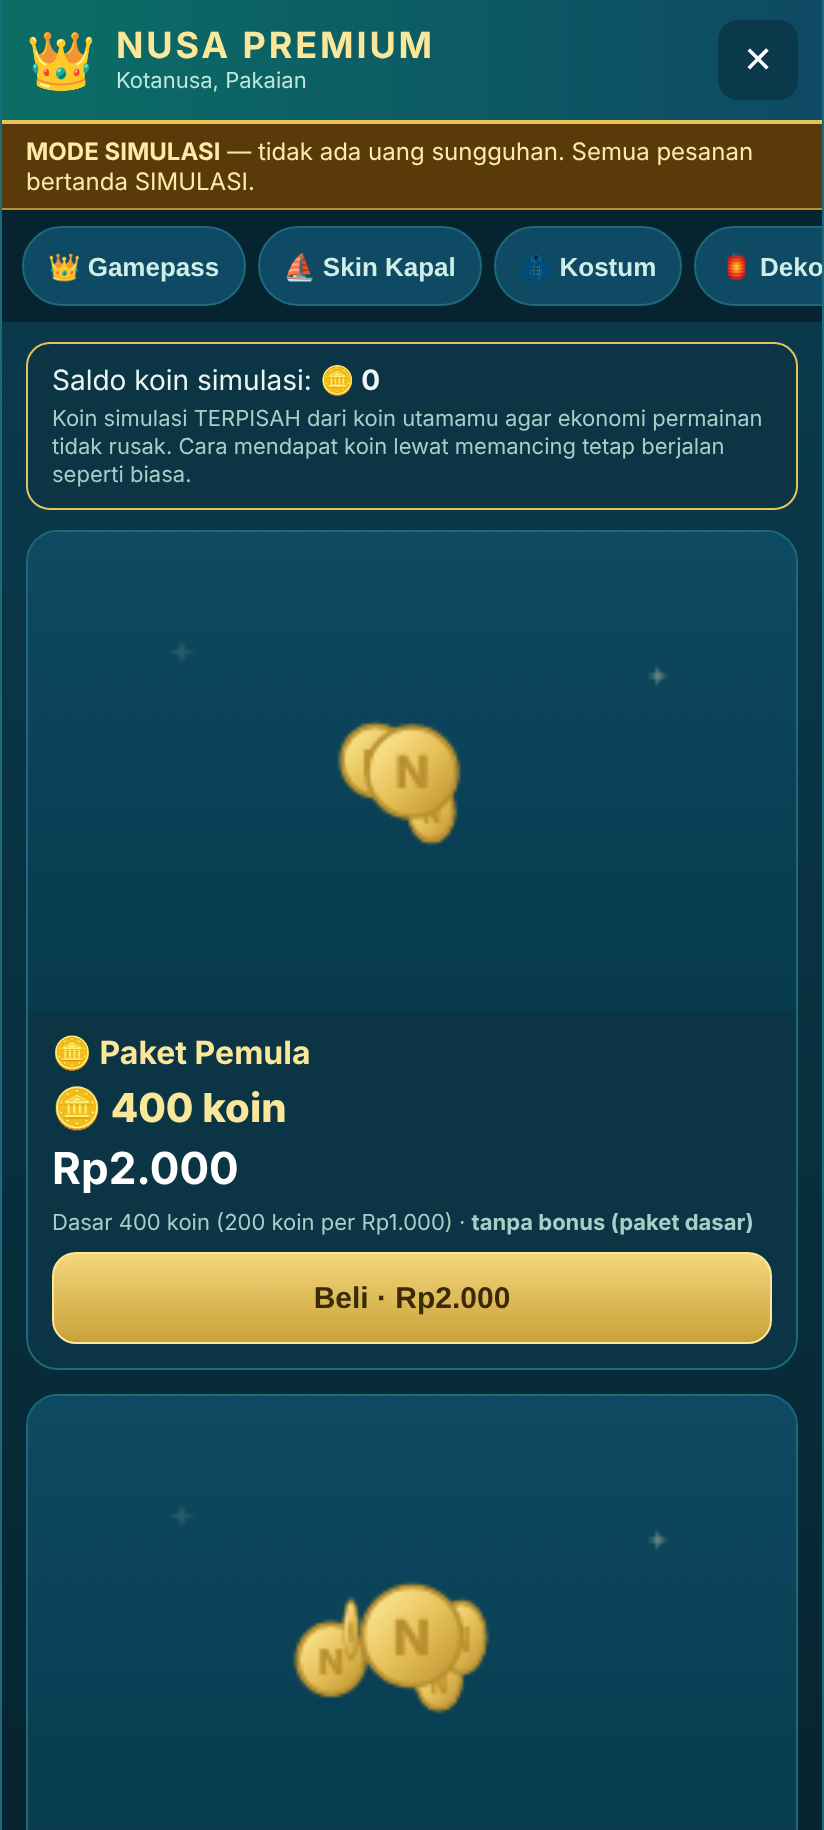
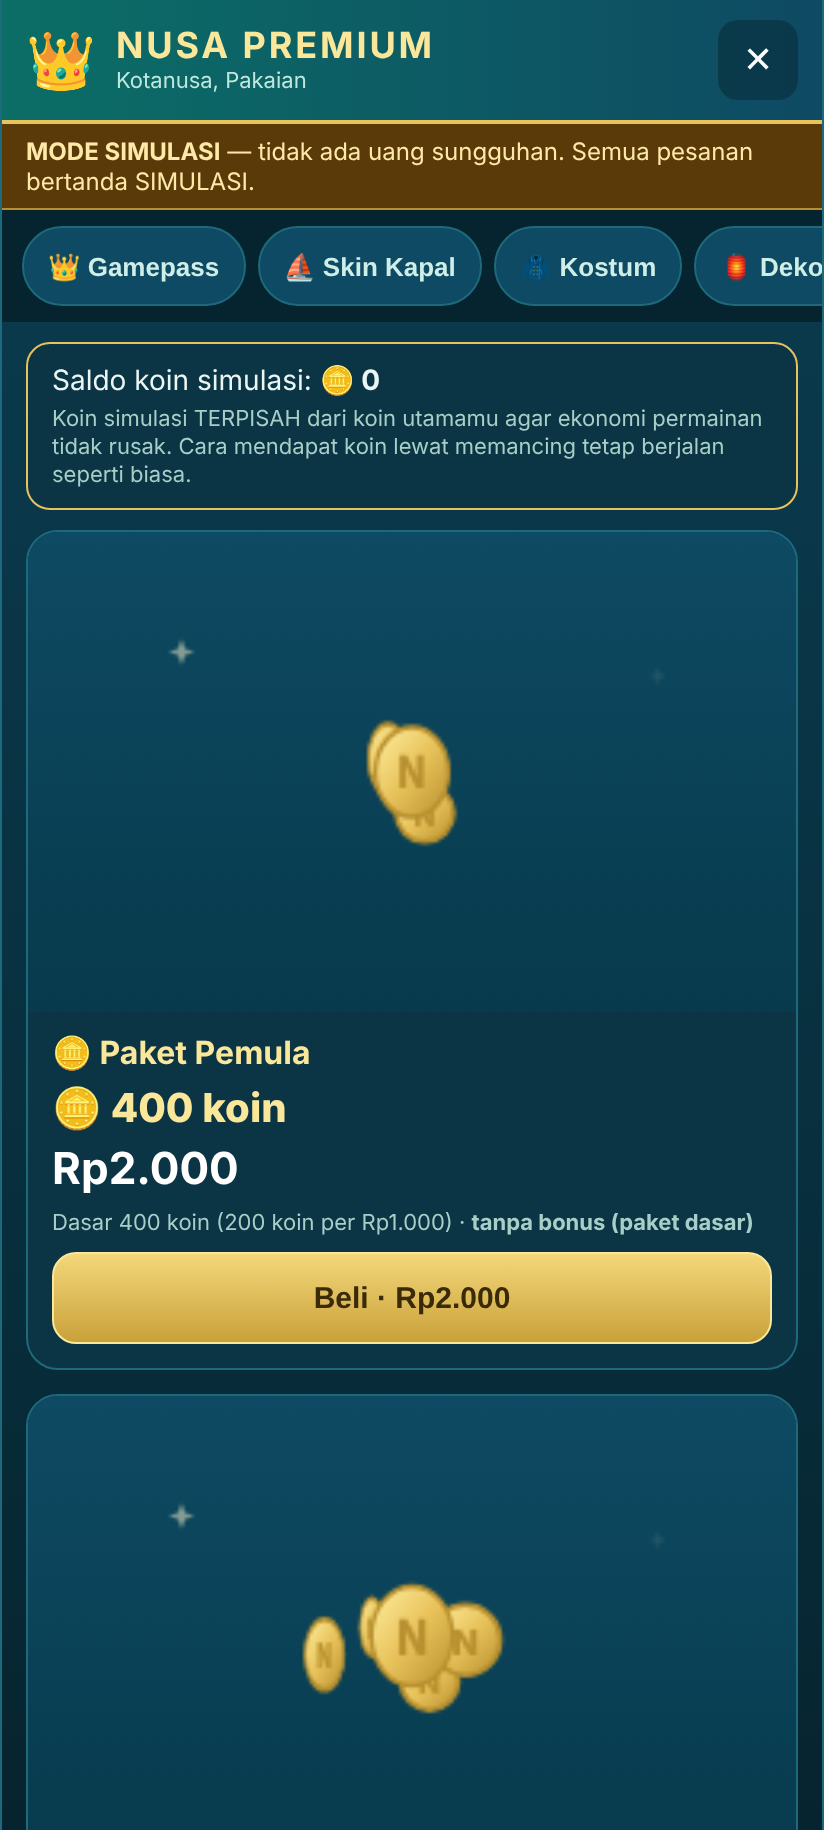
NusaPhone Ide 07 tahap 6: toko mengikuti buyable per model, uji R7, dokumen audit pembayaran, MASTER-PLAN & STATUS
Claude-Session: https://claude.ai/code/session_01HzrTpCFkhjSBdh3Pmjwd1c

diff --git a/phone/store.js b/phone/store.js
@@ -132,7 +132,7 @@ function card() {
   else {
     const tryB = '<button type="button" class="nps-btn alt" data-a="try">Coba tampilan</button>';
     if (own) act = tryB + (using ? '<button type="button" class="nps-btn" disabled>Sedang dipakai</button>' : `<button type="button" class="nps-btn go" data-a="use" ${st.busy ? "disabled" : ""}>Pakai</button>`);
-    else if (premium) { act = tryB + (pay ? '<button type="button" class="nps-btn go" data-a="paycenter">Beli di Payment Center</button>' : '<button type="button" class="nps-btn" disabled>Pembayaran belum tersedia</button>'); note = pay ? "Model premium dibeli lewat Payment Center resmi; kepemilikan baru tercatat setelah pembayaran diverifikasi server. Dengan uang asli: minta izin orang tua/wali." : "Pembayaran uang asli belum aktif. Tidak ada pembelian yang dapat dilakukan sekarang."; }
+    else if (premium) { const sale = !!(m && m.buyable); act = tryB + (sale ? '<button type="button" class="nps-btn go" data-a="paycenter">Beli di Payment Center</button>' : `<button type="button" class="nps-btn" disabled>${esc((m && m.reason) || "Pembayaran belum tersedia")}</button>`); note = sale ? "Model premium dibeli lewat Payment Center resmi; kepemilikan baru tercatat setelah pembayaran diverifikasi server. Dengan uang asli: minta izin orang tua/wali." : pay ? "Payment Center aktif, tetapi model ini belum dijual di sana. Tidak ada pembelian yang dapat dilakukan sekarang." : "Pembayaran uang asli belum aktif. Tidak ada pembelian yang dapat dilakukan sekarang."; }
     else if (st.confirm) act = `<div class="nps-conf" role="alertdialog" aria-label="Konfirmasi pembelian"><p>Beli <b>${esc(d.name)}</b> seharga <b>🪙 ${fmt(m.coins)}</b> koin bermain? Saldo sekarang 🪙 ${fmt(s.bal)}.</p><button type="button" class="nps-btn go" data-a="buy-yes" ${st.busy ? "disabled" : ""}>Ya, beli</button><button type="button" class="nps-btn" data-a="buy-no">Batal</button></div>`;
     else act = tryB + `<button type="button" class="nps-btn go" data-a="buy" ${st.busy || !m || !m.buyable || s.bal < m.coins ? "disabled" : ""}>Beli 🪙 ${m ? fmt(m.coins) : "–"}</button>`, note = m && s.bal < m.coins ? "Koin bermain belum cukup. Koin didapat dari bermain; koin top-up tidak dipakai di sini." : "";
   }
@@ -157,7 +157,7 @@ function onClick(e) {
   else if (a === "retry") { const r = st.msg && st.msg.retry; if (r) send(r.opId, r.model, true); }
   else if (a === "use") useModel(st.sel);
   else if (a === "reload") refresh(false);
-  else if (a === "topup" || a === "paycenter") { if (!(st.s && st.s.pay && st.s.pay.available === true)) return; close(); try { NW.shopUI && NW.shopUI.open("topup"); } catch (er) { /* abaikan */ } }
+  else if (a === "topup" || a === "paycenter") { if (!(st.s && (a === "paycenter" ? (sel() && sel().buyable) : (st.s.pay && st.s.pay.available === true)))) return; close(); try { NW.shopUI && NW.shopUI.open("topup"); } catch (er) { /* abaikan */ } }
 }
 function onCanvas(e) {
   if (!root) return; const r = cv.getBoundingClientRect(), x = (e.clientX - r.left) * CW / r.width, y = (e.clientY - r.top) * CH / r.height;

diff --git a/tests/browser/test_phone_store.py b/tests/browser/test_phone_store.py
@@ -192,7 +192,18 @@ def sec_premium(b, br):
     U.shot(A, "st-412x915-payment-center")
     ev(A, "NW.shopUI.close()"); time.sleep(0.8); go_door(A); opened = enter(A); card_ready(A); A.click("#nphStore .nps-topup", timeout=8000) if opened else None; time.sleep(0.8)
     ok("R6 'Isi Koin' hanya membuka Payment Center lama (toko tertutup, saldo tidak berubah)", not store_open(A) and ev(A, "!!(NW.shopUI&&NW.shopUI.isOpen())") and eco(br, uid)["bal"] == 3000)
-    ctx.close()
+    # Payment Center aktif, tetapi katalog lama belum menjual model premium: 'Isi Koin' aktif, model premium tetap nonaktif dengan alasan dari server
+    A.unroute("**/fn/phoneState")
+    def h2(route):
+        r = route.fetch(); j = r.json(); res = j.get("result", j); st = res.get("state") or res
+        if isinstance(st, dict) and "pay" in st:
+            st["pay"] = {"available": True}
+            for m in st["models"]:
+                if m["kind"] == "premium" and not m["owned"]: m["buyable"] = False; m["reason"] = "Belum dijual di Payment Center"
+        route.fulfill(response=r, json=j)
+    A.route("**/fn/phoneState", h2); ev(A, "NW.shopUI.close()"); time.sleep(0.8); go_door(A); enter(A); card_ready(A); chip(A, "s5"); time.sleep(0.2)
+    ok("R7 Payment Center aktif tapi model belum dijual: 'Isi Koin' aktif; tombol premium nonaktif bertuliskan 'Belum dijual di Payment Center'", not ev(A, "document.querySelector('#nphStore .nps-topup').disabled") and ev(A, "document.querySelector('#nphStore .nps-act .nps-btn:last-child').disabled") and "Belum dijual di Payment Center" in ev(A, "document.querySelector('#nphStore .nps-act').textContent") and not ev(A, "!!document.querySelector('#nphStore [data-a=paycenter]')"))
+    A.unroute("**/fn/phoneState"); ctx.close()
 
 def sec_layout(b, br):
     seat(br, "x", 0)

diff --git a/docs/ai-handoff/nusaphone/AUDIT-PEMBAYARAN-NUSAPHONE.md b/docs/ai-handoff/nusaphone/AUDIT-PEMBAYARAN-NUSAPHONE.md
@@ -1,0 +1,56 @@
+# Audit pembayaran — NusaPhone (Ide 07, Tahap 6)
+Status: **Draft untuk Owner**. Semua flag MATI. Tidak ada pembayaran uang asli yang diuji (lingkungan uji = Worker asli + Firestore TIRUAN). Dokumen ini hanya mengklaim apa yang ada buktinya di kode/tes.
+
+## 1. Kesimpulan singkat
+1. NusaPhone **tidak punya jalur pembayaran sendiri**. Model premium (s3/s4/s5/Nusa Crown 17) tidak pernah dibeli, diberikan, atau dikonfirmasi oleh kode ponsel — baik klien maupun server.
+2. Satu-satunya tambahan di sisi pembayaran = **adaptor BACA-SAJA** (`server/phone-payment.js`, backend PR #66) yang bertanya ke Payment Center lama: "apakah uang nyata aktif untuk pemain ini, dan model mana yang memang dijual di katalognya?". Jawaban ragu/gagal = **tidak tersedia**.
+3. **Saat ini model premium belum bisa dibeli sama sekali**, dan itu disengaja: katalog Payment Center lama (`shop-core`) belum memuat produk `phone_*`. Menambahkannya berarti **mengubah Payment Center lama** — di luar kontrak Ide 07 dan butuh persetujuan Owner (lihat §6).
+4. Kode Payment Center/Premium Shop/QRIS lama **tidak diubah** (bukti §5).
+
+## 2. Alur pembayaran lama (tidak disentuh)
+Pesanan dibuat pemain → pembayaran QRIS → pesanan `PENDING` → Owner mencocokkan mutasi merchant → `confirmPayment` (backend, `server/vendor/shop-core.cjs`) memverifikasi nominal = harga + kode unik, `env === 'NYATA'`, `providerRef` unik → `grant()` menulis `ent.products[id]` dan `ent.owned[grant]` (`{from, at, env}`) atau menambah `ent.wallet.NYATA` untuk paket koin. Kunci server: `NUSA_SHOP_LIVE` (uang nyata), `ENABLE_SHOP_PRODUCTION` (tulis), mode `nyata` di `shop_config/main`, daftar `pilot`, `NUSA_PUBLIC_OPEN` (pilot kosong ≠ terbuka umum tanpa kunci ini).
+
+## 3. Yang ditambahkan Ide 07 di sisi pembayaran
+| Komponen | Isi | Bukti |
+|---|---|---|
+| `server/phone-payment.js` | `makePhonePayment({shop, db, publicOpen})` → `({uid}) → {available, models[]}`. `available` = katalog lama melaporkan `live:true` **dan** `shop_config.mode==='nyata'` **dan** pemain boleh (pilot berisi uid, atau pilot kosong + `NUSA_PUBLIC_OPEN=ya`). `models` = id premium yang ADA dan `enabled` di katalog sebagai produk `phone_<id>`. Cache 15 dtk; kegagalan tidak di-cache. | uji `nusaphone-payment` #1 (matriks kasus + cache) |
+| `server/phone-server.js` | Adaptor dipanggil SEBELUM transaksi ponsel (`pay$`), hasilnya dinormalisasi gagal-tertutup (`normPay`). `buyable` premium hanya bila `pay.available` **dan** model ada di `pay.models`; alasan: "Pembayaran belum tersedia" / "Belum dijual di Payment Center". `phoneBuy` untuk premium **selalu menolak (409)**. Kepemilikan premium dibaca dari `ent.owned['phone_'+id]` (hanya BACA). | uji #2, #3, #5, #6 |
+| `worker/index.js` | Merangkai adaptor ke server ponsel memakai `shop` (server toko lama) dan `NUSA_PUBLIC_OPEN`. | uji #3, #4 (Worker asli) |
+| Klien `phone/store.js`, `phone/dompet.js` | Tombol premium aktif hanya bila server mengirim `buyable:true`, dan hanya membuka `NW.shopUI.open("topup")` (Payment Center lama). "Isi Koin" aktif hanya bila `pay.available`. Tidak ada permintaan `phoneBuy` untuk premium. | `test_phone_store.py` R1–R7, `test_phone_social.py` dompet D1–D5 |
+
+## 4. Matriks bukti (tes yang dijalankan)
+Backend (`node --test test/*.test.js`): **418 tes, 415 lulus, 0 gagal, 3 dilewati** (sebelum Tahap 6: 410/407). Uji baru `test/nusaphone-payment.test.js` (7):
+1. Adaptor unit: tersedia hanya bila live **dan** diizinkan; model hanya yang ada & aktif; pilot kosong tanpa kunci publik = tidak; simulasi/uid hilang/uid bukan string/katalog atau config melempar/katalog kosong = tidak; cache TTL.
+2. Worker asli, bawaan: semua premium "Pembayaran belum tersedia"; `phoneBuy` (walau klien mengirim `paid:true, price:0, status:'PAID', orderId`) → 409; koin tidak berubah; **tidak ada dokumen entitlement terbentuk**.
+3. Worker asli, Payment Center nyata aktif tapi katalog lama tanpa `phone_*`: `pay.available=true` namun semua premium "Belum dijual di Payment Center"; `phoneBuy` 409.
+4. Kunci server: nyata tanpa `NUSA_PUBLIC_OPEN` & tanpa pilot = tidak; uid pilot = ya; bukan pilot = tidak; simulasi = tidak; `NUSA_SHOP_LIVE=0` = tidak.
+5. Kepemilikan: klien tidak bisa memalsukan (`owned`, `ent`, `paid` di parameter diabaikan → 409); hak milik sah (`ent.owned.phone_s3` seperti hasil `grant()` lama) langsung terbaca, hanya model itu yang dimiliki, bisa dipakai (penyimpanan 48.000 MB), dan ponsel tidak menulis entitlement.
+6. Per-model dengan adaptor tiruan: hanya model yang dijual punya `buyable`; adaptor rusak/aneh (`throw`, `null`, `available:'true'`, `models:'semua'`) = tidak ada yang bisa dibeli; `phoneBuy` tetap menolak.
+7. Audit statis: `phone-payment.js` tanpa `.set(`/`.update(`/`.delete(`/`.bal`/`credit`/`createOrder`/`confirmPayment`/`.owned`/`wallet`/`NYATA`/`grant`/`providerRef`; `phone-server.js` tidak menulis `ent.*` / `ENT` / `ORD` / `REF` dan tidak memanggil jalur pembayaran; **katalog lama tidak memuat `phone_*`**.
+
+Klien (Playwright, server tiruan): `test_phone_store.py` premium **10/10** — pembayaran belum tersedia → tombol & "Isi Koin" nonaktif, mengeklik tidak mengirim apa pun; server menolak premium walau klien mengaku sudah bayar (4 model); saat backend menyatakan tersedia → "Beli di Payment Center" menutup toko dan membuka Payment Center LAMA tanpa permintaan `phoneBuy`/kepemilikan; "Isi Koin" hanya membuka Payment Center lama; live-tapi-belum-dijual → "Belum dijual di Payment Center". (Catatan jujur: kondisi "pembayaran tersedia" di sisi klien diuji dengan mengubah jawaban `phoneState` di lapisan jaringan uji; keputusan nyata tetap di server dan dibuktikan oleh uji backend di atas.)
+Regresi klien: `unit-shop` 21/0, `unit-economy` 29/0, `unit-rilis` 21/0, `unit-cf-auth` 20/0, `test_phone_social.py` regresi R1 (berkas Payment Center tidak berubah) dan Dompet D5 (Payment Center lama terbuka normal dari game).
+
+## 5. Bukti Payment Center lama tidak berubah
+Perintah (dapat diulang):
+- Game: `git diff --stat origin/integrasi/final-kota-ide08-20261114 -- shop firebase/functions firebase/firestore.rules` → **kosong** (0 berkas).
+- Backend: `git diff --stat 3bbe95a -- server/vendor server/shop/service.js server/shop/integrity.js server/shop/store.js worker/recovery.js` → **kosong**. (`3bbe95a` = ujung cabang dasar backend.)
+- Satu-satunya perubahan di `server/shop/` = `db.js`, **+2/-2 baris, hanya aditif**: menambah koleksi `phone` dan `klippy` ke pemetaan jalur logis→Firestore (dibutuhkan agar dokumen ponsel/Klippy bisa disimpan). Tidak mengubah `core`, pesanan, entitlement, ledger, atau verifikasi.
+- Uang top-up (`ent.wallet.NYATA`) hanya DIBACA oleh `phoneState` (Dompet Nusa). Koin bermain (`eco.bal`) tidak pernah naik karena top-up; kode ponsel/Ocean Spin hanya membelanjakan `eco.bal` (uji `nusaphone-sumber-koin`).
+
+## 6. Yang BELUM ada / butuh keputusan Owner
+1. **Produk premium belum ada di katalog Payment Center.** Agar model premium bisa dibeli lewat jalur lama, katalog (`shop/core.js` di game + salinan `server/vendor/shop-core.cjs`) perlu 4 produk, usulan: `phone_s3` (Rp5.000), `phone_s4` (Rp10.000), `phone_s5` (Rp15.000), `phone_crown17` (Rp25.000), masing-masing `grants: ["phone_<id>"]`, kategori sendiri, `cosmetic:true, power:false`. Ini **mengubah Payment Center lama** (katalog, harga, tampilan toko, uji harga/kode unik) — **tidak saya kerjakan** tanpa persetujuan Owner; setelah itu adaptor di atas otomatis menyala (tanpa kode baru) bila uang nyata aktif.
+2. **Belum ada bukti pembayaran sungguhan** (QRIS asli, Owner menyetujui, `grant` produk phone). Setelah katalog diperluas perlu uji pilot terkendali (daftar `pilot` 1 akun milik Owner) sebelum dibuka umum.
+3. Pembelian tanpa pengelakan anak: toko menampilkan imbauan izin orang tua/wali, tetapi **tidak ada verifikasi usia** di sistem — keputusan kebijakan Owner. Model hanya kosmetik + penyimpanan (bukan kekuatan), tetapi Ocean Spin memakai koin bermain (bukan top-up); ini pembatas pembayaran yang sudah diuji, bukan pengganti kebijakan loot-box/anak.
+4. Harga, kapasitas, lini, nama lima model = angka uji "menunggu Owner" (lihat STATUS).
+
+## 7. Cara memverifikasi ulang
+```
+# backend (cabang fitur/nusaphone-ide07-backend-20261114)
+npm test                      # 418 tes
+node --test test/nusaphone-payment.test.js
+# game (cabang fitur/nusaphone-ide07-20261114)
+NUSA_BACKEND=<jalur backend> PT_ONLY=premium python3 tests/browser/test_phone_store.py
+NUSA_BACKEND=<jalur backend> PS_ONLY=regresi python3 tests/browser/test_phone_social.py
+git diff --stat origin/integrasi/final-kota-ide08-20261114 -- shop firebase/functions firebase/firestore.rules
+```

diff --git a/docs/ai-handoff/nusaphone/STATUS-NUSAPHONE.md b/docs/ai-handoff/nusaphone/STATUS-NUSAPHONE.md
@@ -8,7 +8,7 @@ Kontrak: [CONTRACT-NUSAPHONE.md](CONTRACT-NUSAPHONE.md). Urutan: UI HP → PlayG
 | 3. NusaWeb + Zentro + NusaOcean | Selesai di cabang (`test_phone_web.py` 45 lulus: alamat/Kembali/Beranda/tab ≤3/markah, alamat non-.nusa & HTML ditolak tanpa permintaan jaringan, Zentro hanya indeks lokal, NusaOcean = Ocean Spin yang sama) |
 | 4. Klippy, NusaChat, Dompet Nusa | Selesai di cabang (backend `klippy.test.js` 7 lulus; klien `test_phone_social.py` klippy 16 · chat 16 · dompet 5 · regresi 1; `test_house` 83/0, unit-mp 193/0) |
 | 5. Toko 6 model + toko fisik Kota | Selesai di cabang (`test_phone_store.py`: flag 3 · toko 13 · beli 14 · pulih 9 · premium 9 · layout 9, semua lulus; regresi Kota 38/58/22, `test_phone_ui`, `unit-phone` 80, `unit-kota` 22 lulus) |
-| 6. Integrasi Payment Center/QRIS | Belum |
+| 6. Integrasi Payment Center/QRIS (adaptor baca-saja) | Selesai di cabang: backend `nusaphone-payment` 7 lulus (suite 418 tes / 415 lulus / 0 gagal); klien `test_phone_store.py` premium 10/10. Model premium **belum bisa dibeli** (katalog lama tanpa `phone_*`; butuh persetujuan Owner). Lihat [AUDIT-PEMBAYARAN-NUSAPHONE.md](AUDIT-PEMBAYARAN-NUSAPHONE.md) |
 
 ## Menunggu keputusan Owner
 - **Nama lima model** (sementara: `Model Sementara 1–5`; hanya Nusa Crown 17 bernama) dan pemetaan **empat lini** (usulan: A = s1,s2 [koin]; B = s3; C = s4,s5; D = Nusa Crown 17).
@@ -43,3 +43,7 @@ Kontrak: [CONTRACT-NUSAPHONE.md](CONTRACT-NUSAPHONE.md). Urutan: UI HP → PlayG
 - **Pakai & sinkron**: `phoneUse` (idempoten) lalu `NW.phone.sync` memperbarui daftar milik + casing ponsel. Sebelumnya `st.owned` klien tidak pernah disinkronkan dari server; kini `phoneState` diambil saat gerbang ON dan saat ponsel dibuka (maks 1×/20 dtk), sehingga model beli di perangkat lain ikut tampil.
 - **Coba tampilan**: pratinjau klien saja (tanpa permintaan jaringan / perubahan data).
 - Uji bukan bukti produksi: server = Worker asli + Firestore tiruan; antarmuka "pembayaran tersedia" diuji dengan mengubah jawaban `phoneState` di lapisan jaringan uji (keputusan nyata tetap di server dan ditolak 409 untuk premium).
+
+## Keputusan desain Tahap 6 (Payment Center/QRIS)
+- Ponsel **tidak punya jalur bayar**. Adaptor `server/phone-payment.js` (baca-saja, gagal-tertutup) hanya menjawab "Payment Center nyata aktif untuk pemain ini?" dan "model mana yang dijual di katalog lama (`phone_<id>`)?". `phoneBuy` premium selalu 409. Kepemilikan premium hanya dari `ent.owned['phone_*']` yang ditulis jalur Payment Center lama. Bukti, matriks tes, dan batas: [AUDIT-PEMBAYARAN-NUSAPHONE.md](AUDIT-PEMBAYARAN-NUSAPHONE.md).
+- **Menunggu keputusan Owner**: menambah 4 produk `phone_s3/s4/s5/crown17` ke katalog Payment Center lama (mengubah Payment Center — tidak dikerjakan), uji pilot 1 akun Owner, kebijakan pembelian oleh anak.

diff --git a/docs/ai-handoff/MASTER-PLAN-IDE-01-09.md b/docs/ai-handoff/MASTER-PLAN-IDE-01-09.md
@@ -10,7 +10,7 @@ Aturan tetap: tanpa merge/deploy/flag ON/migrasi produksi/backfill/ubah data pem
 | 4 | Pelabuhan Kota | B | kontrak lokasi, pasar/permintaan harian | Belum |
 | 5 | Eksplorasi Kepulauan | B | pulau/spot ditemukan per pemain, idempoten | Belum |
 | 6 | Latar Mancing per Lokasi | B | ID area/spot/cuaca/waktu + tabel ikan sah | Belum |
-| 3 | NusaPhone (+ sosial, PlayGame, Ocean Spin, NusaWeb/Zentro) | C | pembelian, kapasitas, sosial, moderasi, ledger koin bermain | Draft PR berjalan (flag OFF) — **kontrak resmi: [nusaphone/CONTRACT-NUSAPHONE.md](nusaphone/CONTRACT-NUSAPHONE.md)** (lima game tetap, Ocean Spin 500 koin/spin & larangan koin top-up, enam model/empat lini). Tidak boleh diubah tanpa Owner |
+| 3 | NusaPhone (+ sosial, PlayGame, Ocean Spin, NusaWeb/Zentro) | C | pembelian, kapasitas, sosial, moderasi, ledger koin bermain | Draft PR lengkap tahap 1–6 (flag OFF; game #152, backend #66) — status & keputusan Owner: [nusaphone/STATUS-NUSAPHONE.md](nusaphone/STATUS-NUSAPHONE.md); audit pembayaran: [nusaphone/AUDIT-PEMBAYARAN-NUSAPHONE.md](nusaphone/AUDIT-PEMBAYARAN-NUSAPHONE.md) (model premium belum bisa dibeli: katalog Payment Center lama belum memuat produk `phone_*` — butuh persetujuan Owner) — **kontrak resmi: [nusaphone/CONTRACT-NUSAPHONE.md](nusaphone/CONTRACT-NUSAPHONE.md)** (lima game tetap, Ocean Spin 500 koin/spin & larangan koin top-up, enam model/empat lini). Tidak boleh diubah tanpa Owner |
 | 8 | Dapur Rumahku + Kedai Bu Indah | D | bahan, resep, tamu | Belum |
 | 9 | Intro Sinematik (`introSeen`) | E | per-akun lewat Cloud Save | Belum |
 
